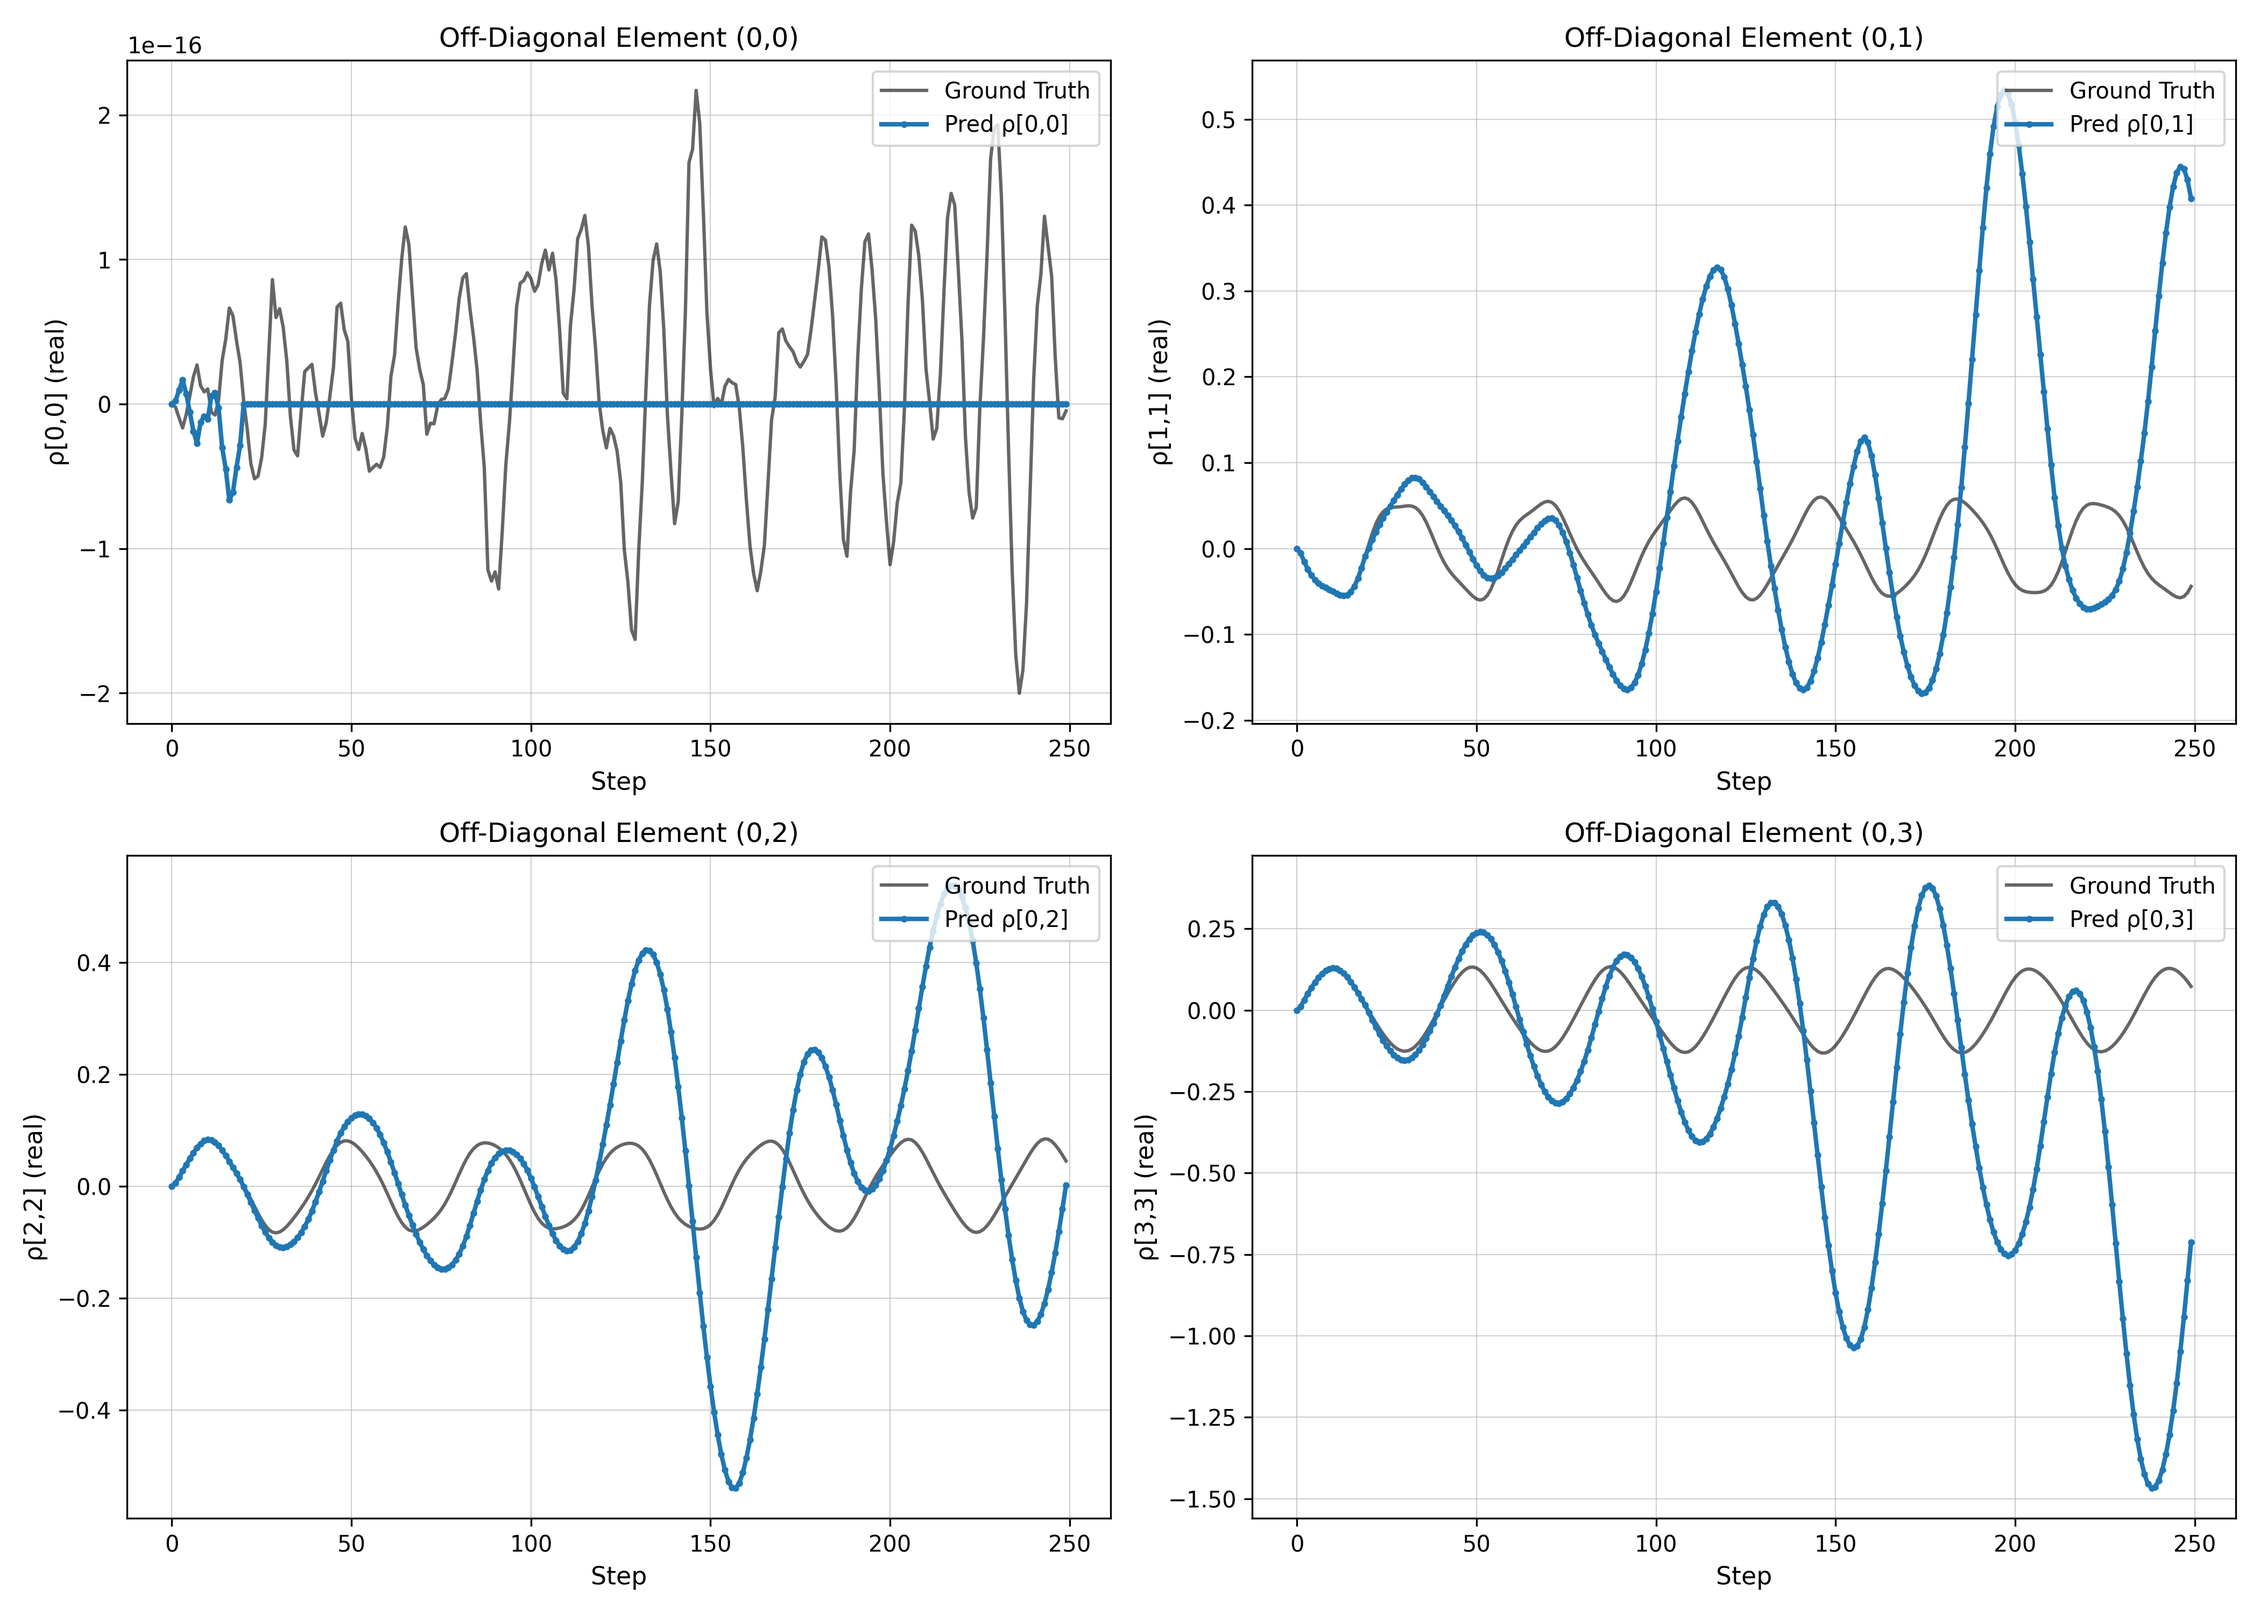
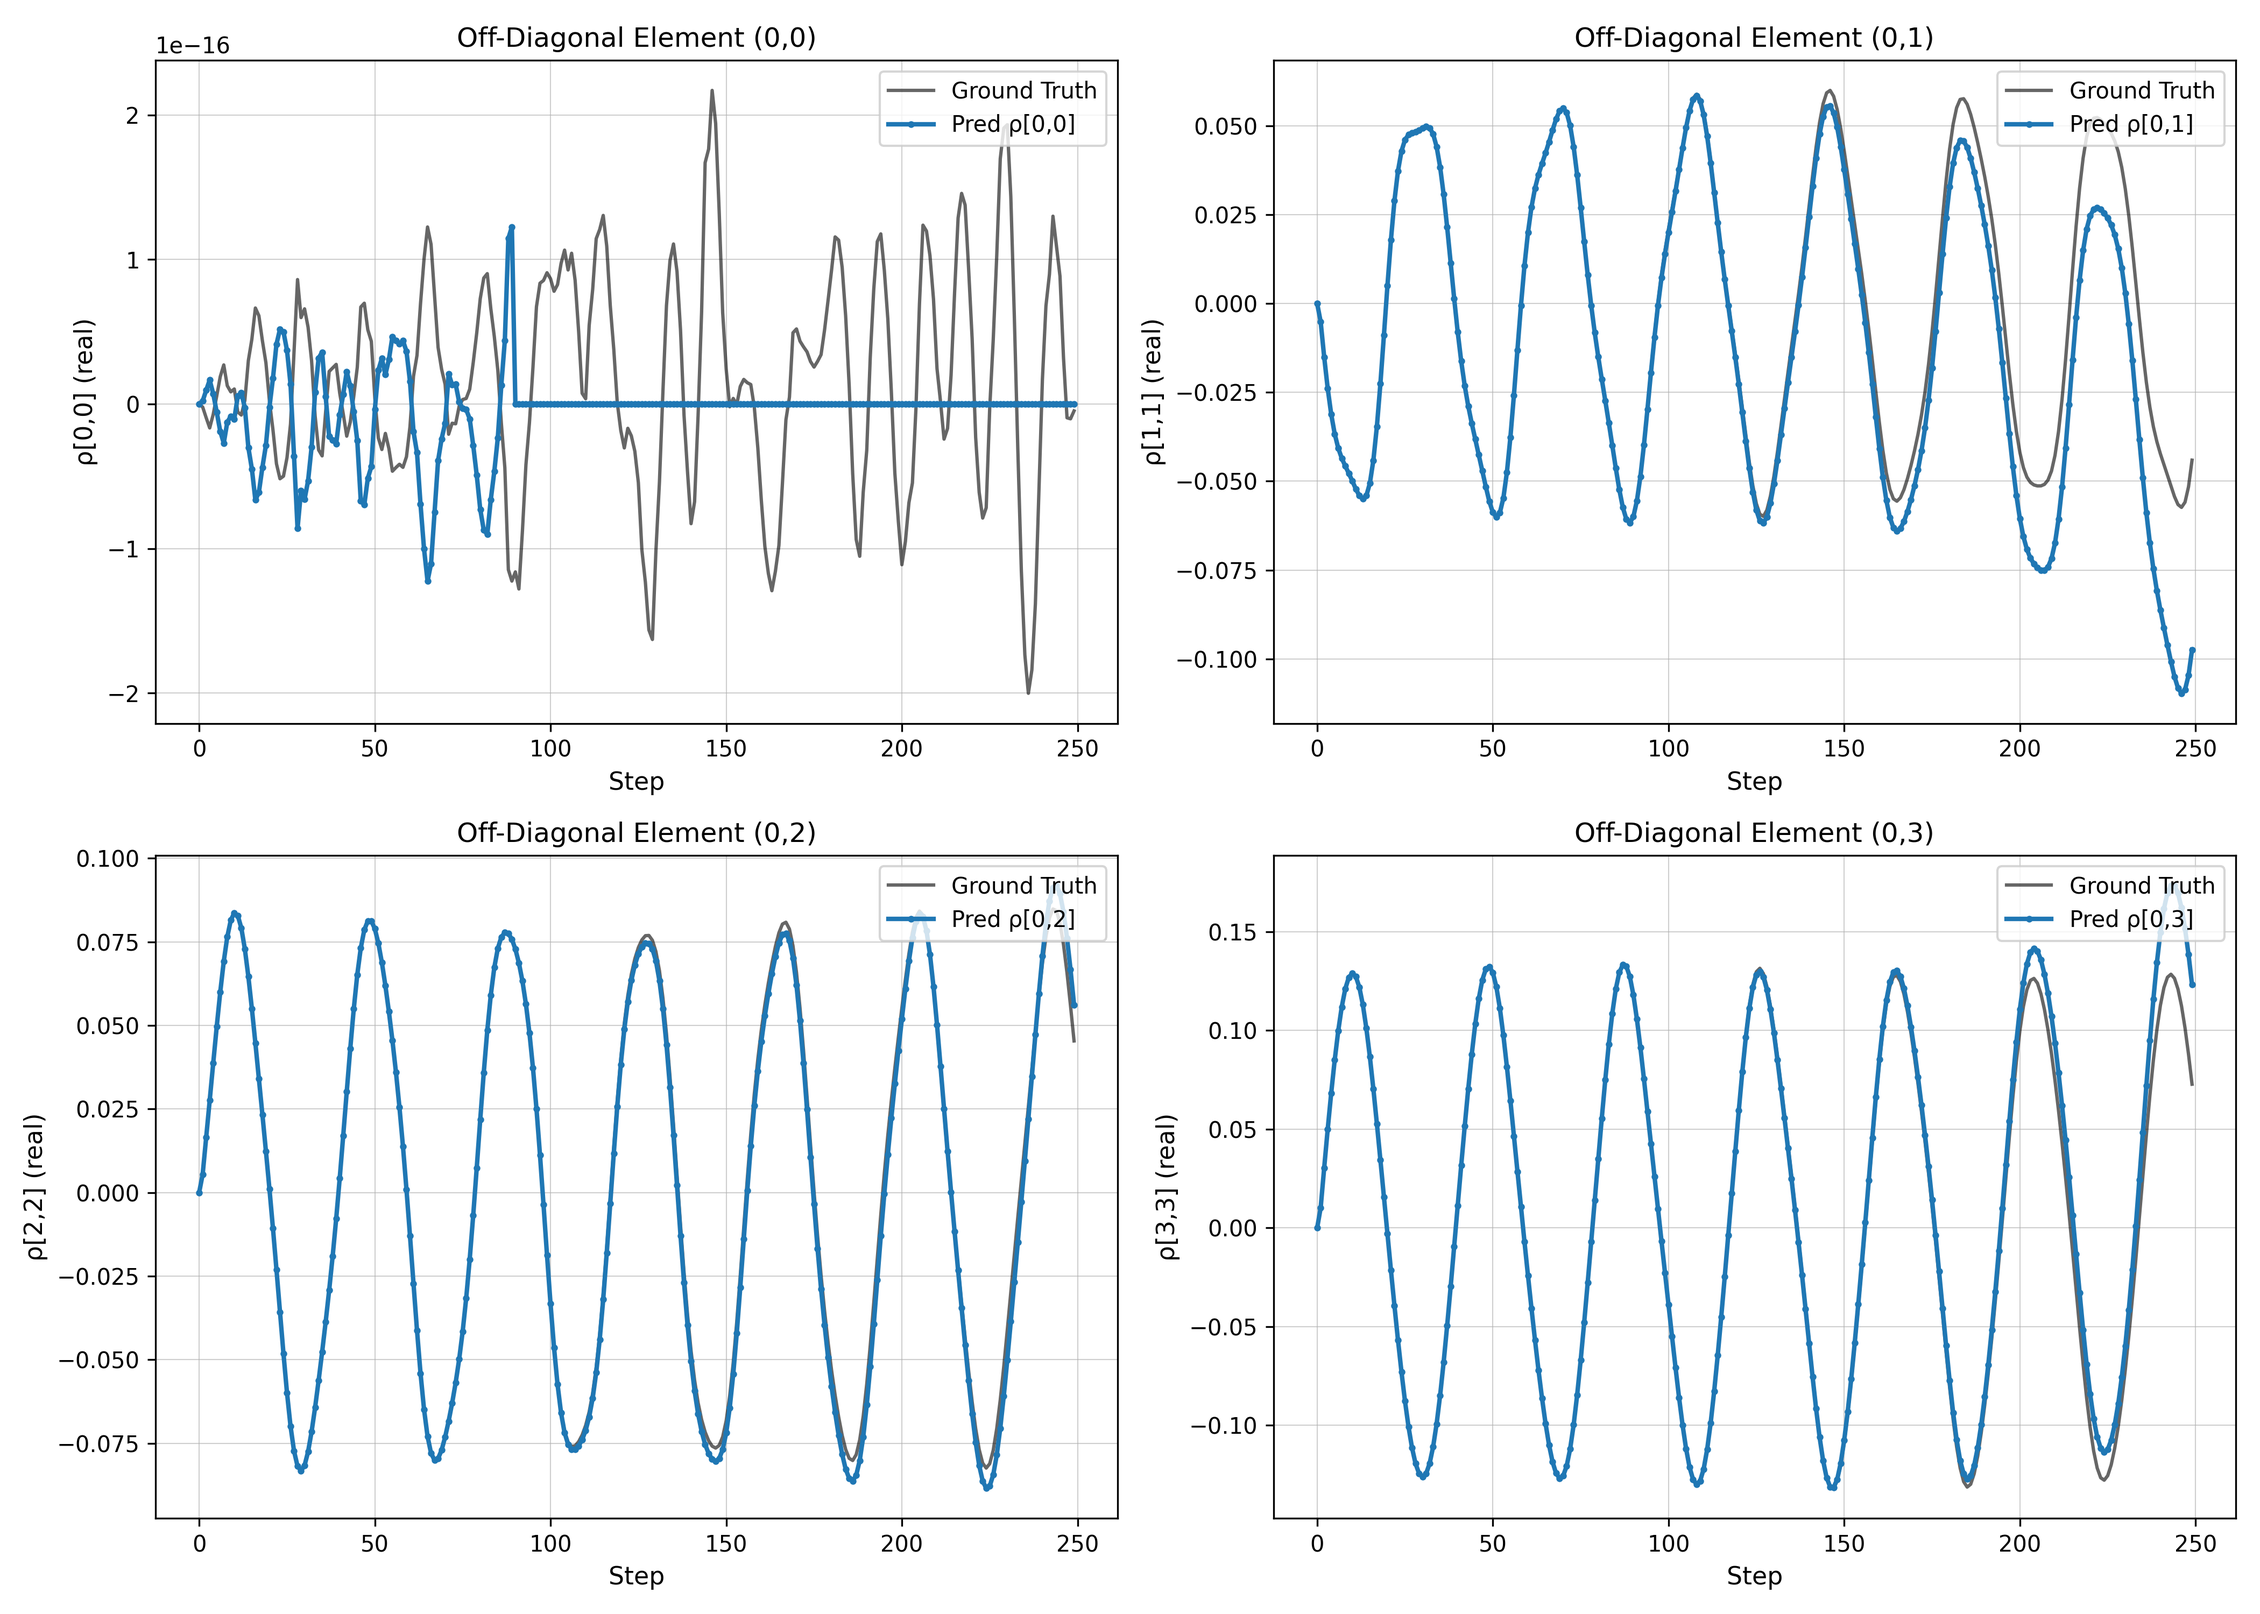
fix: conjugate in train

diff --git a/src/predict_config2.py b/src/predict_config2.py
@@ -1,0 +1,142 @@
+import torch
+import numpy as np
+import matplotlib.pyplot as plt
+import json
+import os
+import sys
+
+# Import Model Definition
+try:
+    from train_benchmark import DensityMatrixLSTM, CFG
+except ImportError:
+    print("Error: Could not import 'train_benchmark.py'. Make sure it is in the same directory.")
+    sys.exit(1)
+
+# ... (Include load_single_rho and generate_pulse_field functions from previous versions) ...
+def load_single_rho(filepath, n_basis, dtype=torch.complex128):
+    if not os.path.exists(filepath):
+        raise FileNotFoundError(f"Bootstrap file not found: {filepath}")
+    arr = np.load(filepath)
+    tensor = torch.tensor(arr, dtype=dtype)
+    tensor = tensor.conj()
+
+    if tensor.ndim == 3 and tensor.shape[0] == 2: return tensor
+    elif tensor.ndim == 2 and tensor.shape == (n_basis, n_basis):
+        return torch.stack([tensor, torch.zeros_like(tensor)])
+    elif tensor.ndim == 3 and tensor.shape[0] == 1:
+        return torch.stack([tensor[0], torch.zeros_like(tensor[0])])
+    else: raise ValueError(f"Shape mismatch: {tensor.shape}")
+
+def generate_pulse_field(steps, dt, amplitude, freq):
+    t = torch.linspace(0, steps*dt, steps)
+    envelope = torch.exp(-(t - (steps*dt)/2)**2 / 100) 
+    field_val = amplitude * torch.sin(freq * t) * envelope
+    field = torch.zeros((steps, 3), dtype=torch.float64)
+    field[:, 0] = field_val 
+    return field
+
+def run_prediction(config_path):
+    with open(config_path, 'r') as f:
+        config = json.load(f)
+
+    device = torch.device('cuda' if torch.cuda.is_available() else 'cpu')
+    print(f"Running prediction on {device}...")
+
+    # Setup Globals
+    CFG['n_basis'] = config['model']['n_basis']
+    CFG['hidden_dim'] = config['model']['hidden_dim']
+    seq_len = config['model']['seq_len']
+    n_basis = CFG['n_basis']
+    CFG['spin-polarization'] = config['system']['spin-polarization']
+
+    # Load Model
+    model = DensityMatrixLSTM().to(device)
+    model.load_state_dict(torch.load(config['io']['model_path'], map_location=device))
+    model.eval()
+
+    # --- 1. Load Initial History ---
+    init_cfg = config['initial_state']
+    mode = init_cfg.get('mode', 'groundstate')
+    
+    # This tensor will hold the history we want to SAVE to the file
+    initial_history_tensor = None 
+    consumed_steps = 0
+
+    if mode == 'warmstart':
+        file_list = init_cfg['bootstrap_files']
+        print(f"Mode: Warm-Start. Loading last {seq_len} of {len(file_list)} files...")
+        
+        # Load necessary history for model input
+        files_to_load = file_list[-seq_len:]
+        consumed_steps = seq_len
+        
+        history_list = []
+        for fp in files_to_load:
+            rho = load_single_rho(fp, n_basis) 
+            history_list.append(rho)
+            
+        # (Batch=1, Seq, Spin, N, N)
+        current_seq = torch.stack(history_list).unsqueeze(0).to(device)
+        
+        # Save this history for the output file
+        initial_history_tensor = torch.stack(history_list) # (Seq, Spin, N, N)
+
+    else:
+        # Cold Start
+        print("Mode: Cold-Start.")
+        gs_file = init_cfg['ground_state_file']
+        rho_gs = load_single_rho(gs_file, n_basis)
+        current_seq = rho_gs.unsqueeze(0).unsqueeze(1).repeat(1, seq_len, 1, 1, 1).to(device)
+        consumed_steps = 0
+        
+        # For cold start, history is just repeated GS
+        initial_history_tensor = rho_gs.unsqueeze(0).repeat(seq_len, 1, 1, 1)
+
+    # --- 2. Prepare Field ---
+    # (Same field loading logic as before)
+    field_cfg = config['field']
+    if field_cfg.get('type') == 'file':
+        field_arr = np.loadtxt(field_cfg['path'])
+        if field_arr.ndim == 1: field_arr = field_arr[1:] if len(field_arr)==4 else field_arr
+        elif field_arr.shape[1] == 4: field_arr = field_arr[:, 1:] 
+        field_series = torch.tensor(field_arr, dtype=torch.float64)
+    else:
+        field_series = generate_pulse_field(field_cfg['steps'], field_cfg['dt'], field_cfg['amplitude'], field_cfg['frequency'])
+    
+    if consumed_steps > 0:
+        field_series = field_series[consumed_steps:]
+    
+    field_series = field_series.to(device)
+
+    # --- 3. Run Prediction ---
+    predictions = []
+    total_steps = len(field_series)
+    print(f"Predicting {total_steps} steps...")
+
+    with torch.no_grad():
+        for t in range(total_steps):
+            next_field = field_series[t].unsqueeze(0) # (1, 1, 3)
+            
+            # Predict
+            pred_rho = model(current_seq, next_field)
+            predictions.append(pred_rho.squeeze(0).cpu()) # Store (Spin, N, N)
+            
+            # Update History
+            current_seq = torch.cat([current_seq[:, 1:], pred_rho.unsqueeze(1)], dim=1)
+
+    # --- 4. Stitch and Save ---
+    # Combine: [Initial History] + [Predictions]
+    predicted_tensor = torch.stack(predictions) # (T_pred, Spin, N, N)
+    full_trajectory = torch.cat([initial_history_tensor, predicted_tensor], dim=0) # (Total, Spin, N, N)
+    
+    output_path = config['io']['output_file']
+    np.save(output_path, full_trajectory.numpy())
+    
+    print(f"Done. Full trajectory (History + Prediction) saved to {output_path}")
+    print(f"Final Shape: {full_trajectory.shape}")
+
+if __name__ == "__main__":
+    if len(sys.argv) < 2:
+        print("Usage: python predict_config.py prediction.json")
+    else:
+        run_prediction(sys.argv[1])

diff --git a/src/train_benchmark.py b/src/train_benchmark.py
@@ -17,12 +17,8 @@ class MolecularDynamicsDataset(Dataset):
     def __init__(self, density_file, field_file, seq_len, rollout_steps=1):
         print(f"Loading density data from {density_file}...")
         data_dict = np.load(density_file, allow_pickle=True).item()
-        
-        # --- FIX: Time Reversal Correction ---
-        # The bootstrap/extraction tool produces conjugated (time-reversed) matrices.
-        # We conjugate here to orient the arrow of time forward.
         raw_rho = torch.tensor(data_dict['density'], dtype=CFG['dtype'])
-        self.rho = torch.conj(raw_rho)
+        self.rho = raw_rho
         
         try:
             field_data = np.loadtxt(field_file)
@@ -146,8 +142,8 @@ def train():
             x_seq, f_seq, y_seq = x_seq.to(CFG['device']), f_seq.to(CFG['device']), y_seq.to(CFG['device'])
             
             # Noise Injection (Drift Simulation)
-            if model.training:
-                x_seq = x_seq + (torch.randn_like(x_seq) * 1e-3)
+            # if model.training:
+            #     x_seq = x_seq + (torch.randn_like(x_seq) * 1e-8)
 
             opt.zero_grad()
             total_loss = 0
@@ -177,7 +173,7 @@ def train():
             opt.step()
             ep_loss += total_loss.item()
         
-        if (epoch+1)%10 == 0: print(f"Epoch {epoch+1}: {ep_loss/len(loader):.5f}")
+        if (epoch+1)%10 == 0: print(f"Epoch {epoch+1}: {ep_loss/len(loader):.7f}")
         
     torch.save(model.state_dict(), CFG['model_save_path'])
     return model, data
